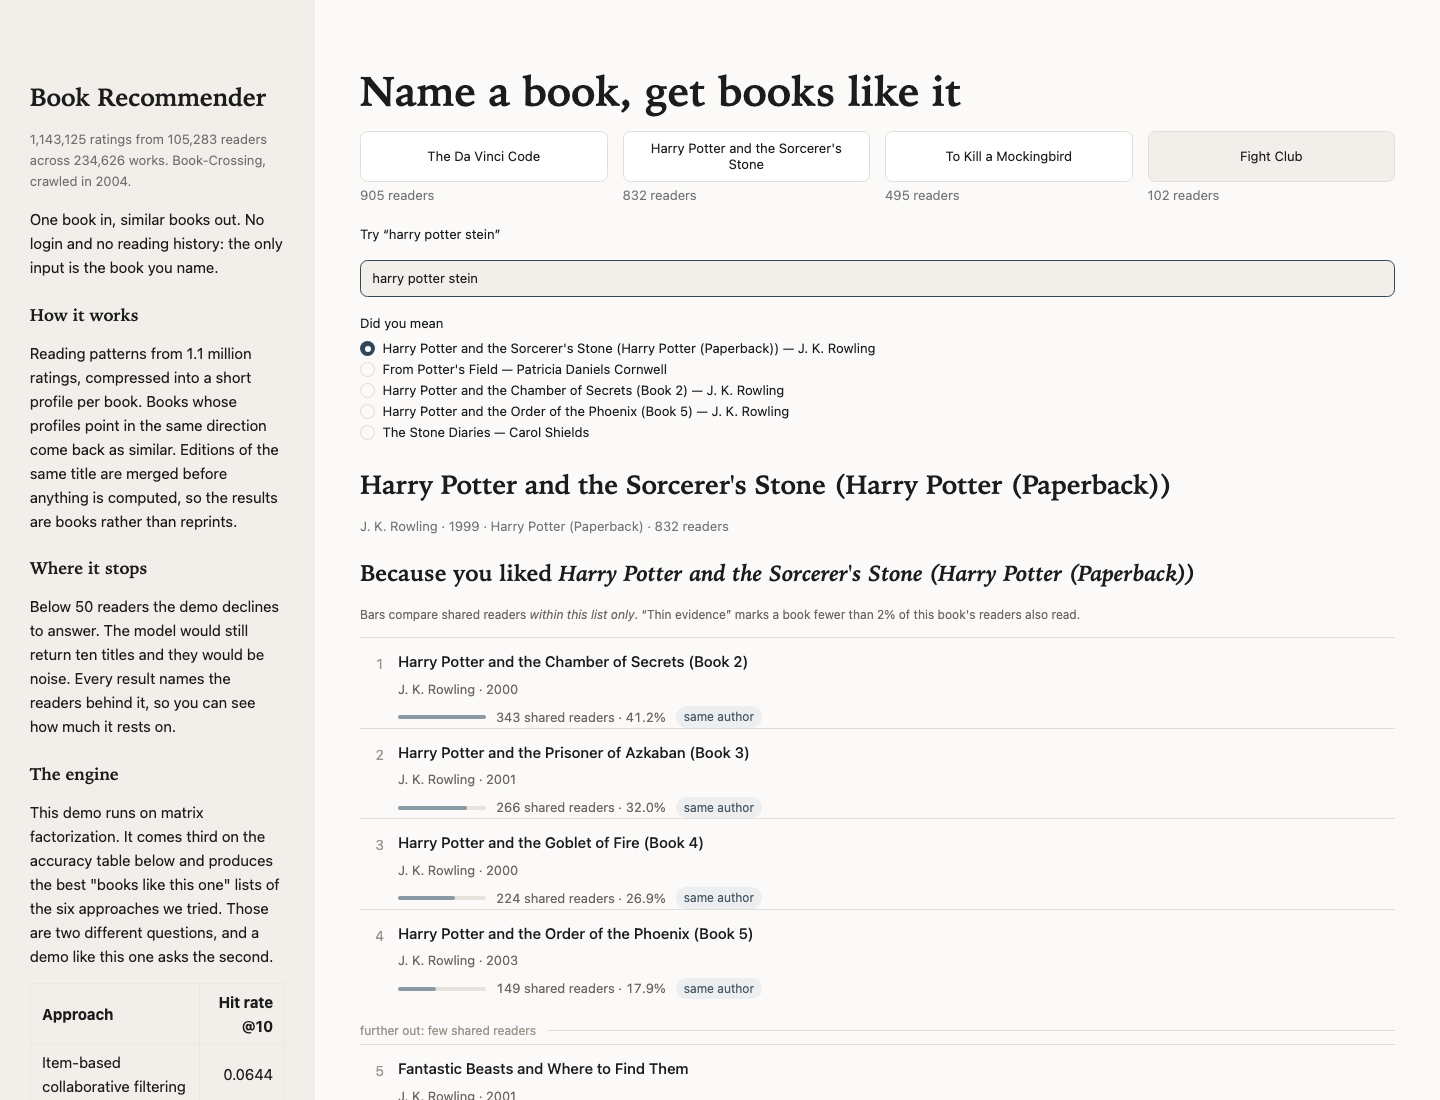
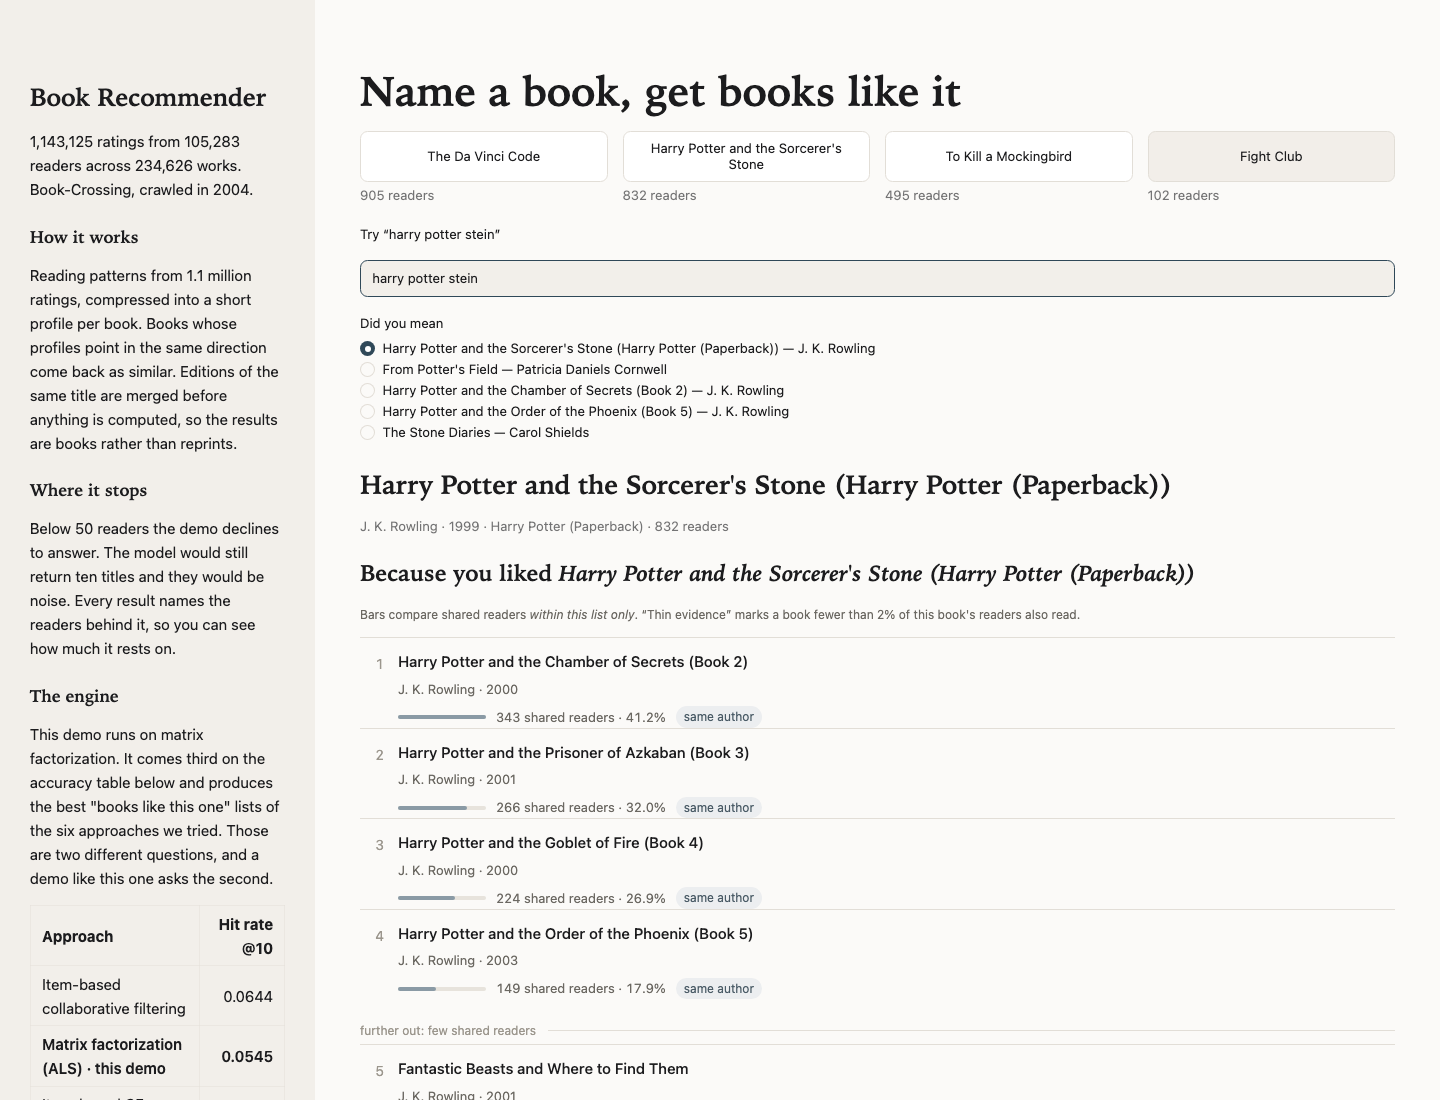
Sidebar: drop the opening line, set the corpus line as body text
Both the project owner's, on seeing it run.

"One book in, similar books out. No login and no reading history" is out. The
page title says the first half and the absence of any login field says the
second.

The corpus line moves from caption to body text. The two never differed in
typeface or colour — measured, both -apple-system and the same ink — only in
size, 13.1px against 15px, and at caption size it read as a footnote to the
name above it rather than as the first thing the app tells you.

Verified in the DOM: corpus line and the "How it works" paragraph now render
identically at 15px.

Changed region(s): [[0.0, 0.1236, 0.1875, 1.0]]

diff --git a/app/main.py b/app/main.py
@@ -210,11 +210,15 @@ def sidebar(engine: DemoEngine) -> None:
         # Its rule is unchanged and is the reason it is a function rather than a string:
         # exactly one place in the app states the corpus size, and it is counted off the
         # assets at runtime.
-        st.caption(corpus_line(engine))
-        st.markdown(
-            "One book in, similar books out. No login and no reading history: the only "
-            "input is the book you name."
-        )
+        #
+        # Body text, not a caption (review,09.08.): the two differed only in size, 13.1px
+        # against 15px, and at caption size it read as a footnote to the name above it
+        # rather than as the first thing the app tells you.
+        #
+        # The pinned copy's opening line — "One book in, similar books out. No login and no
+        # reading history" — is cut with it. The page title says the first half and the
+        # absence of any login field says the second.
+        st.markdown(corpus_line(engine))
         st.markdown("### How it works")
         st.markdown(
             "Reading patterns from 1.1 million ratings, compressed into a short profile per "
